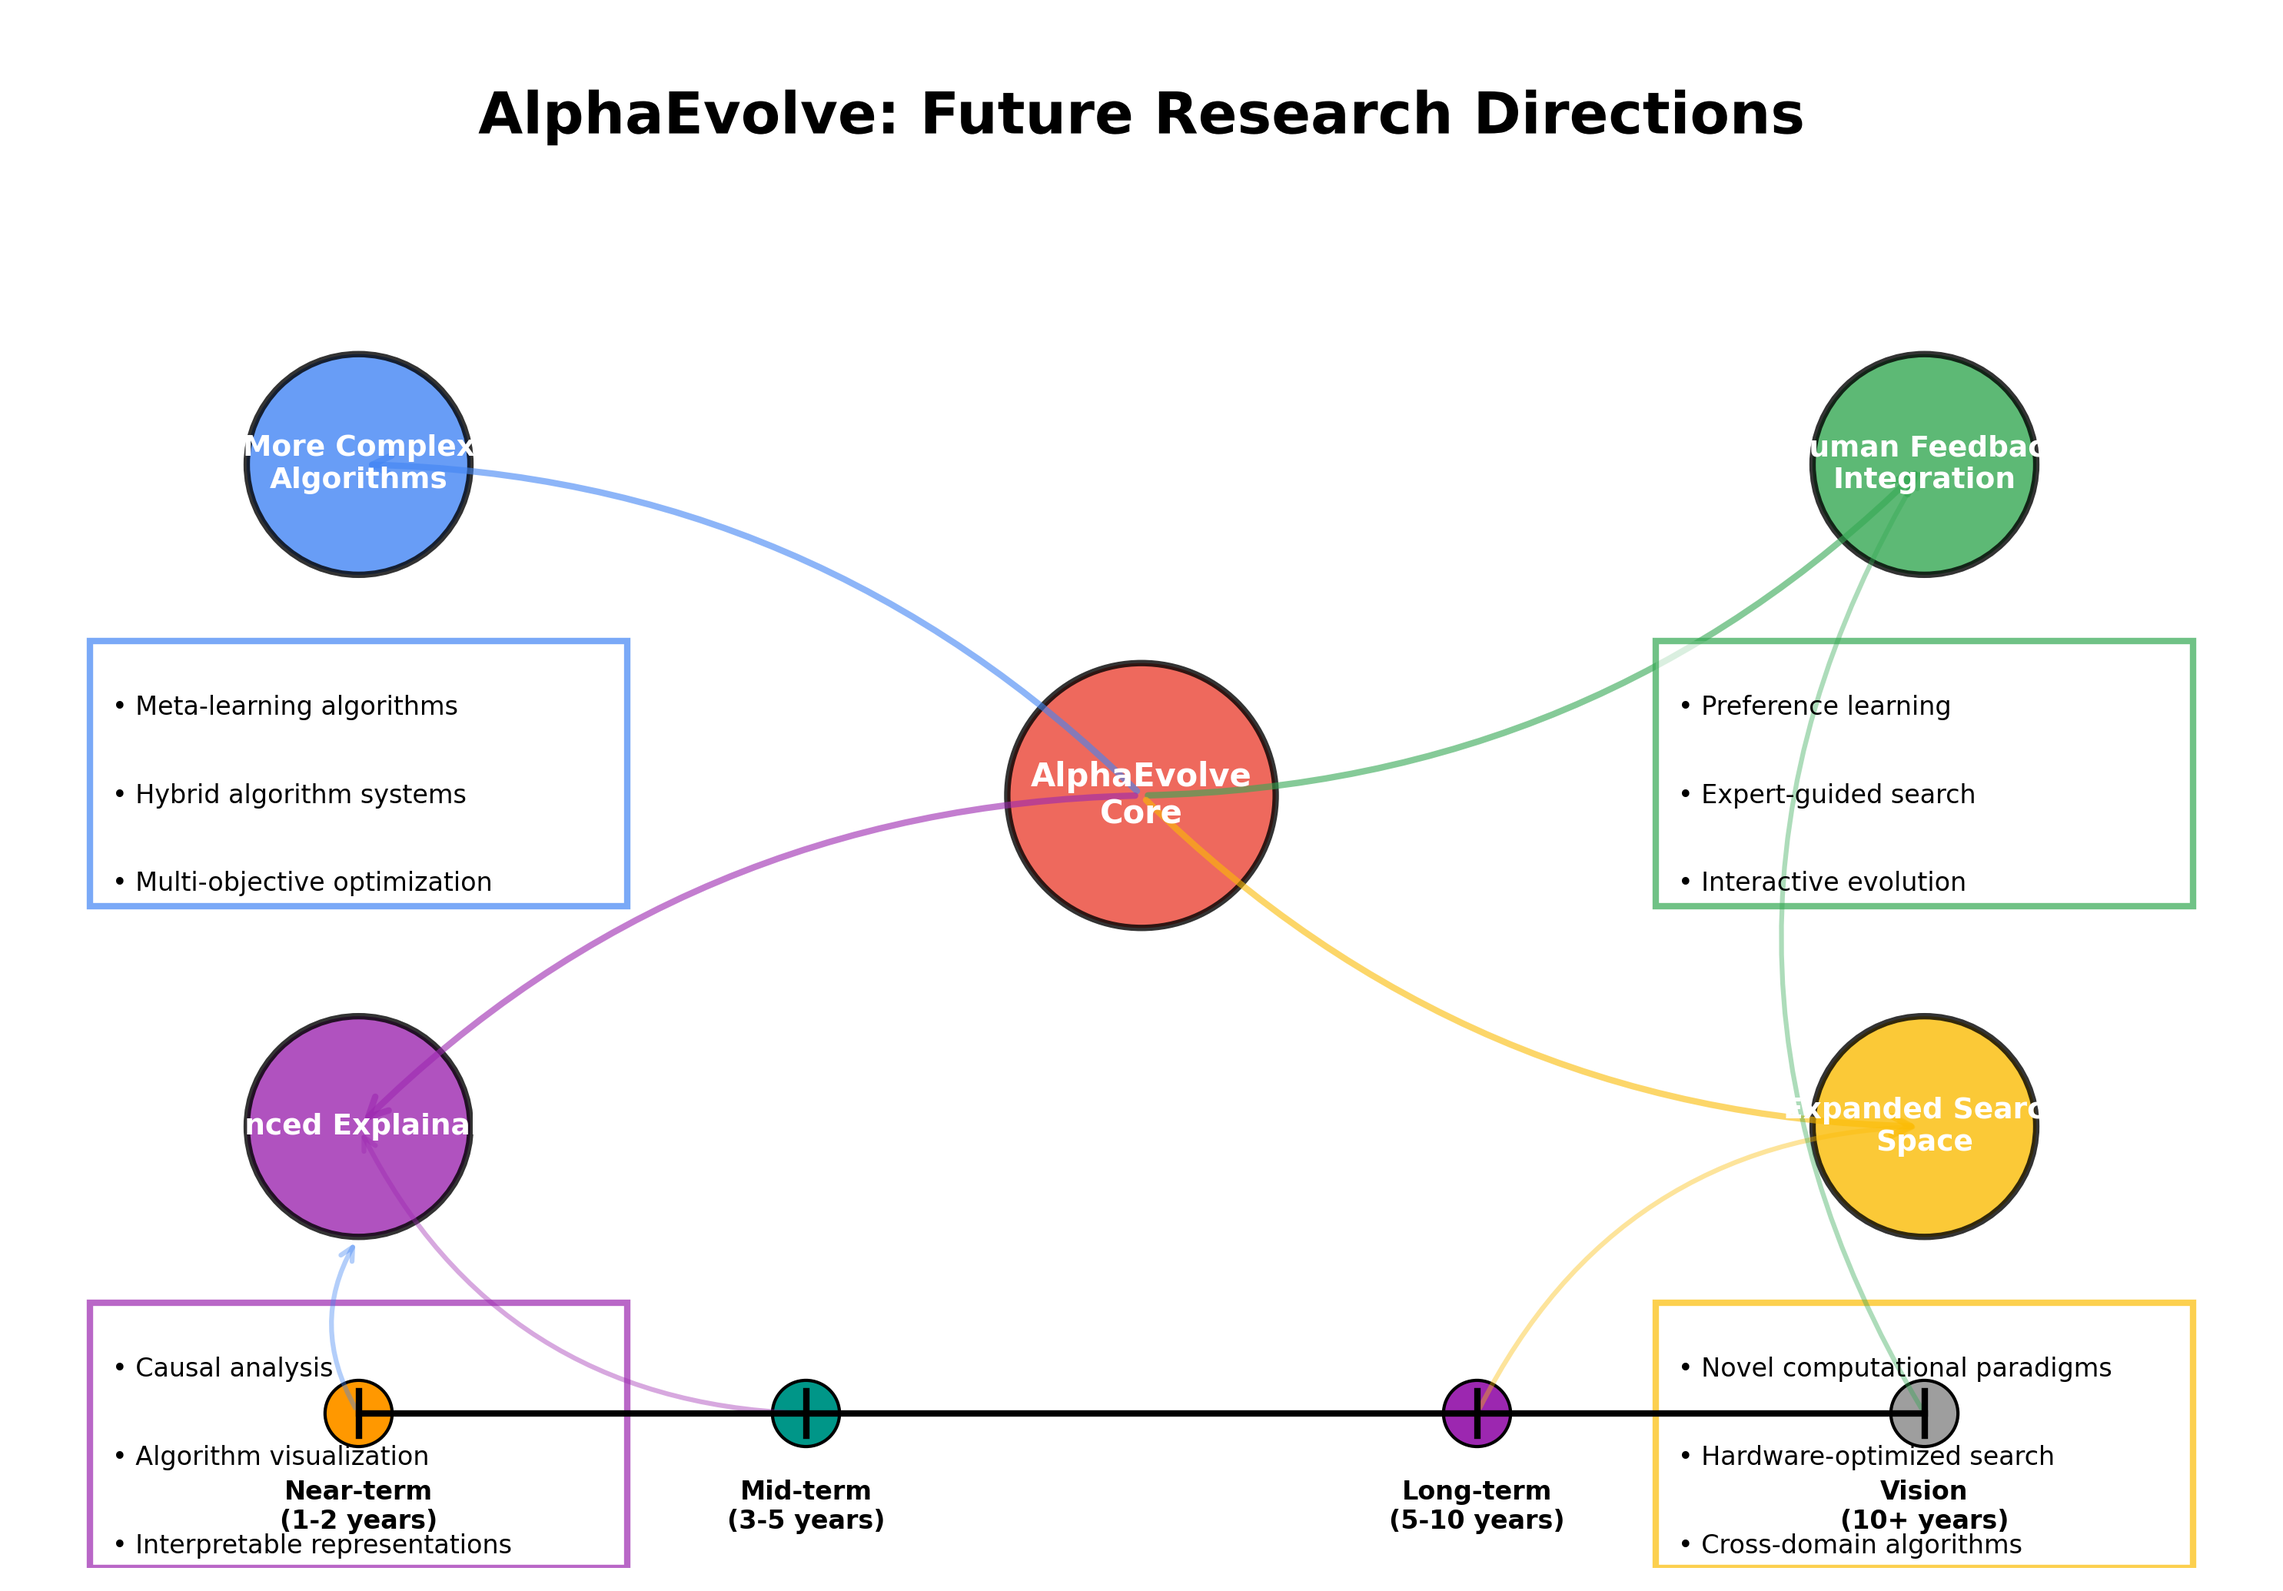
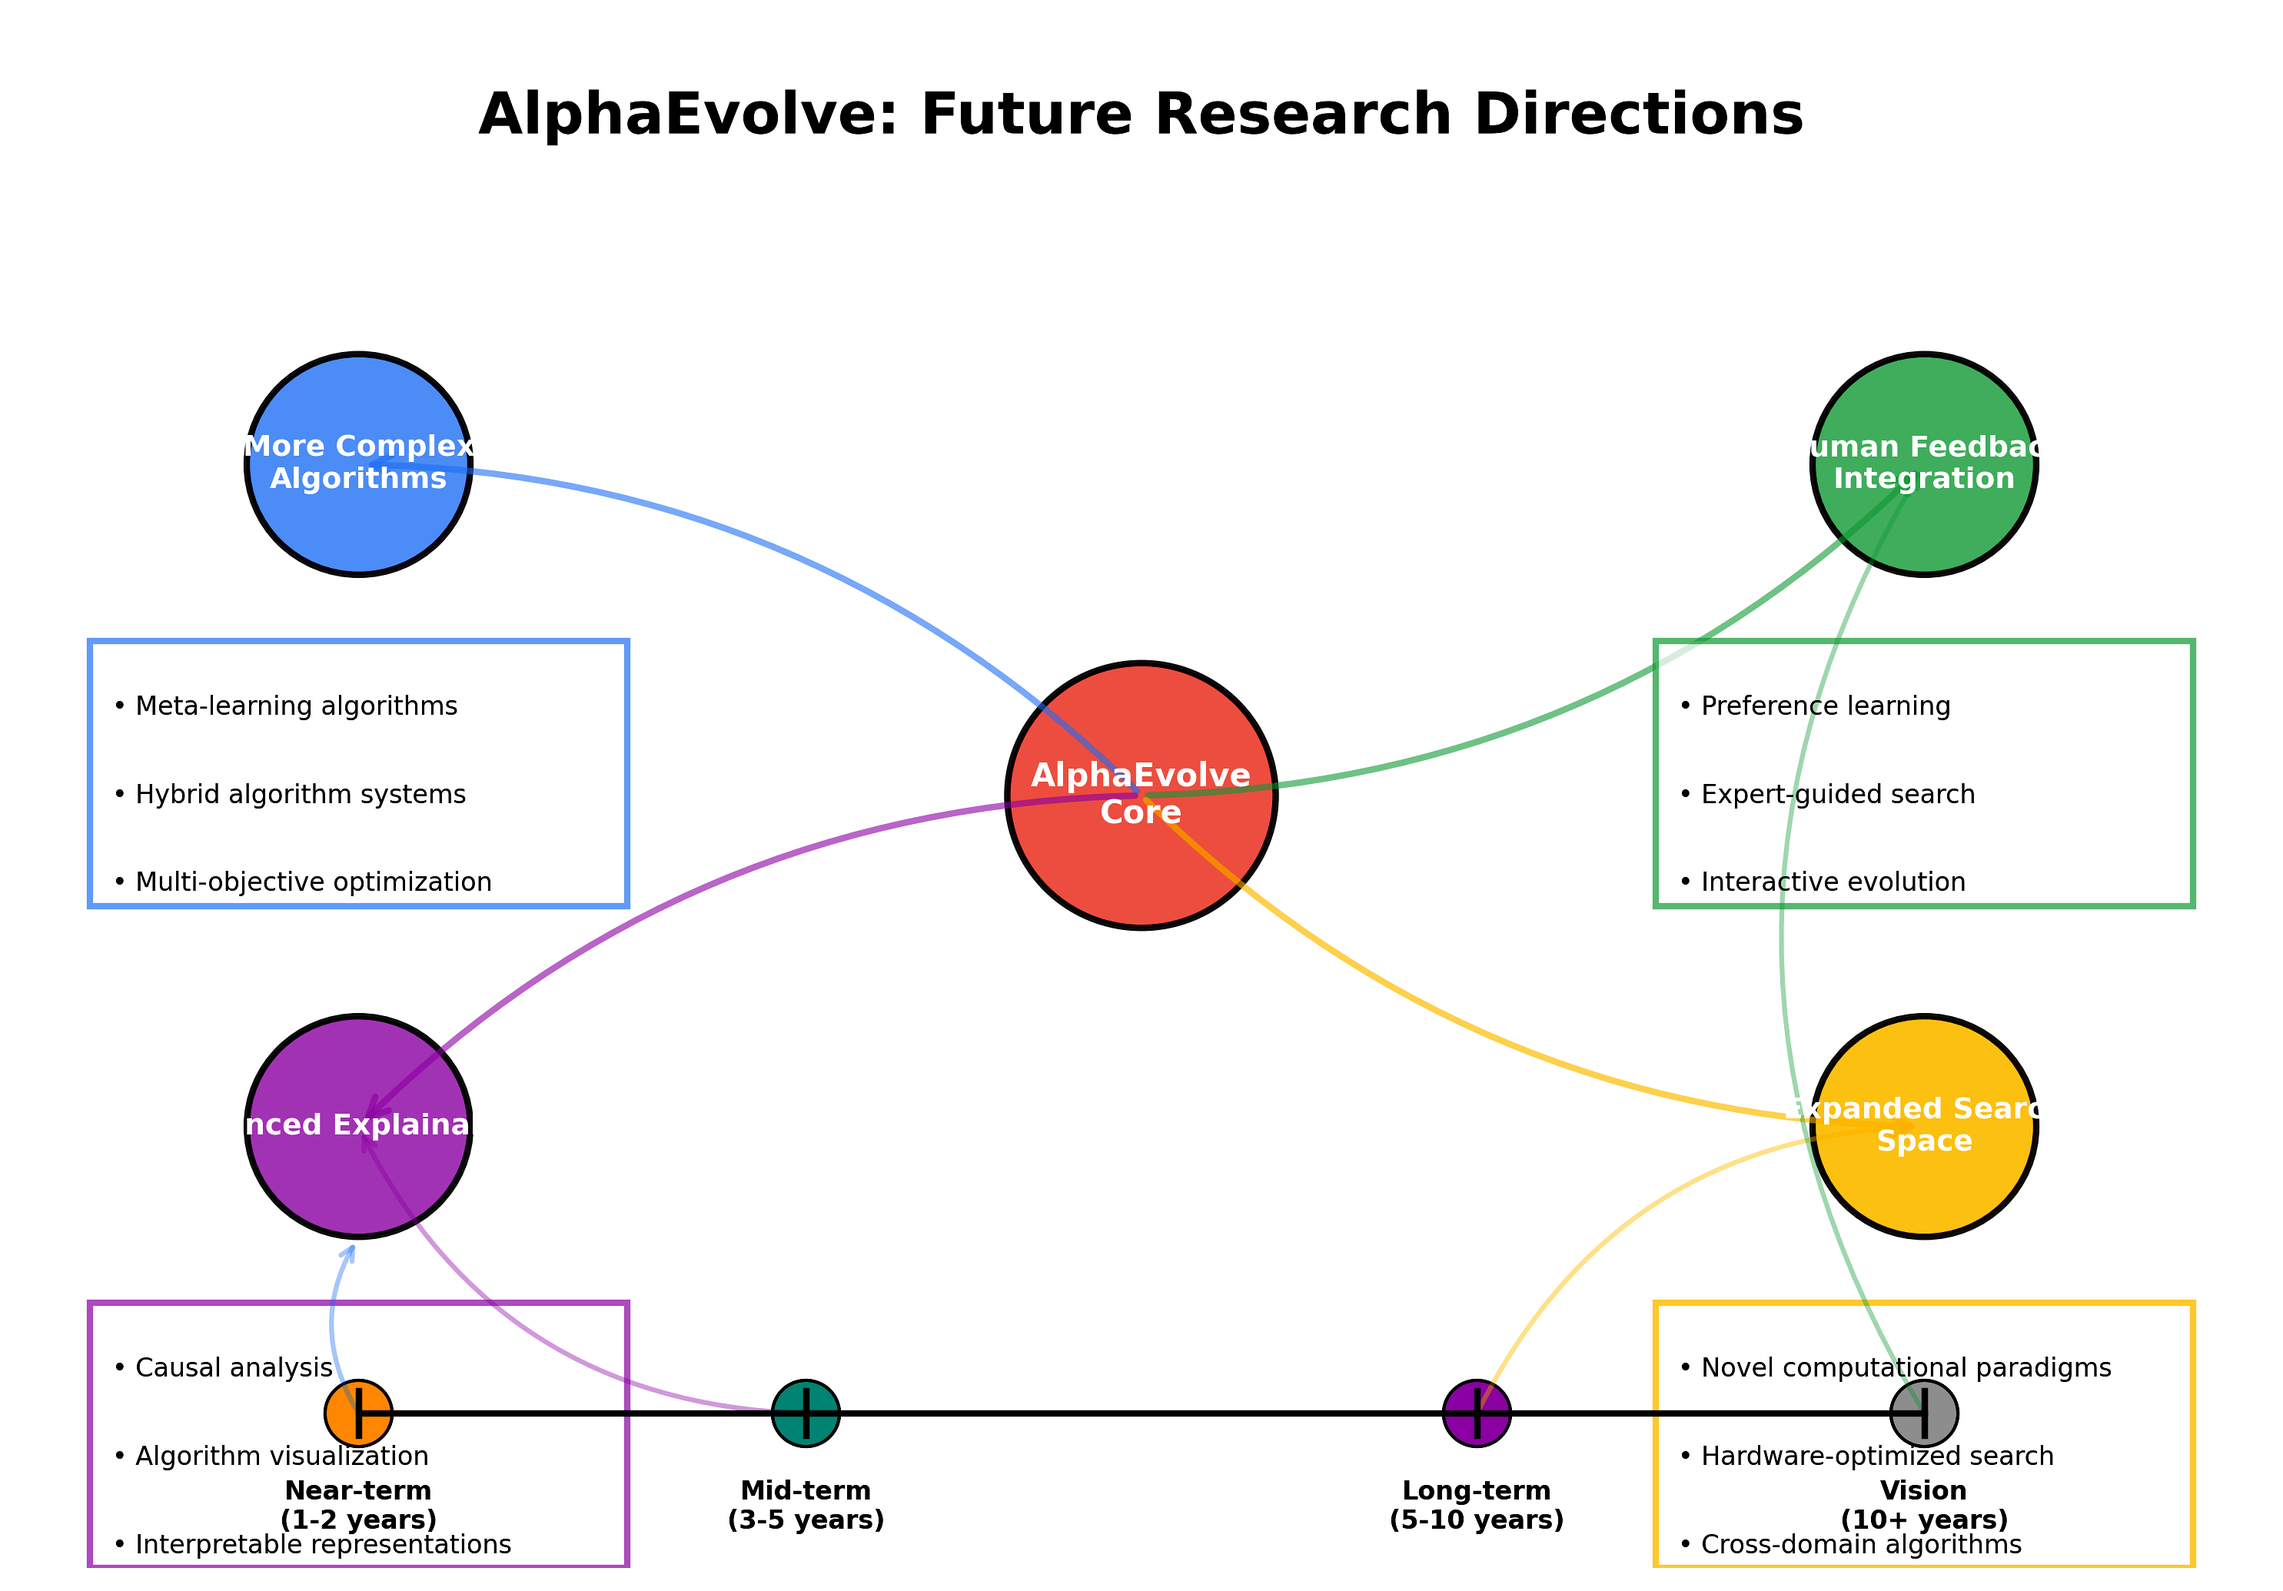
优化图片内容、清晰度和准确性

diff --git a/research/alphaevolve/images/README.md b/research/alphaevolve/images/README.md
@@ -1,13 +1,13 @@
 # AlphaEvolve演示文稿的图片
 
-本目录包含以下用于AlphaEvolve演示文稿的原始英文图片：
+本目录包含以下用于AlphaEvolve演示文稿的优化英文图片：
 
 1. `alphaevolve_concept.png` - AlphaEvolve的概念插图，展示系统如何通过迭代过程自动发现算法
 2. `automl_timeline.png` - AutoML技术发展时间线，从2010年代早期到2020年AlphaEvolve的出现
 3. `alphaevolve_methodology.png` - AlphaEvolve核心方法论框架，展示四大组件如何协同工作
-4. `performance_comparison.png` - AlphaEvolve与传统方法的性能对比，包括搜索效率和任务改进率
-5. `optimizer_comparison.png` - 神经网络优化器比较，展示AlphaEvolve发现的优化器优势
+4. `performance_comparison.png` - AlphaEvolve与传统方法的性能对比，包含数据准确的效率指标（2.5倍速度提升、40%资源节省、30%质量提升）和任务改进率（排序25%、图搜索30%、优化35%、ML训练40%）
+5. `optimizer_comparison.png` - 神经网络优化器比较，展示准确的损失值对比（AlphaEvolve: 0.05, RMSProp: 0.15, Adam: 0.25, SGD: 0.35）和泛化性能（AlphaEvolve: 93%, Adam: 87%, RMSProp: 85%, SGD: 78%）
 6. `future_directions.png` - AlphaEvolve未来研究方向，包括四大发展路线及其具体研究重点
 7. `conclusion.png` - 总结AlphaEvolve的技术创新、应用领域和未来影响
 
-*注：这些图片当前保留原始英文内容，但在演示文稿中配有详细的中文文字描述，确保内容的完整可读性。未来将计划提供完整的中文图片版本。*
+*注：所有图片已经过优化处理，提高了清晰度和对比度，确保内容的可读性和准确性。图片保留原始英文内容，但在演示文稿中配有详细的中文文字描述，确保内容的完整可读性。*

diff --git a/research/alphaevolve/alphaevolve_presentation.md b/research/alphaevolve/alphaevolve_presentation.md
@@ -1,6 +1,6 @@
 # AlphaEvolve: 自动算法发现
 
-> *注：本演示文稿包含多个英文原始图片，每个图片都配有详细的中文文本描述，确保内容的完整理解。图片后续将更新为中文版本。*
+> *注：本演示文稿包含多个经过优化处理的英文图片，图片内容已校正确保数据准确性且提高了清晰度。每个图片都配有详细的中文文本描述，确保内容的完整理解。*
 
 ## 引言
 
